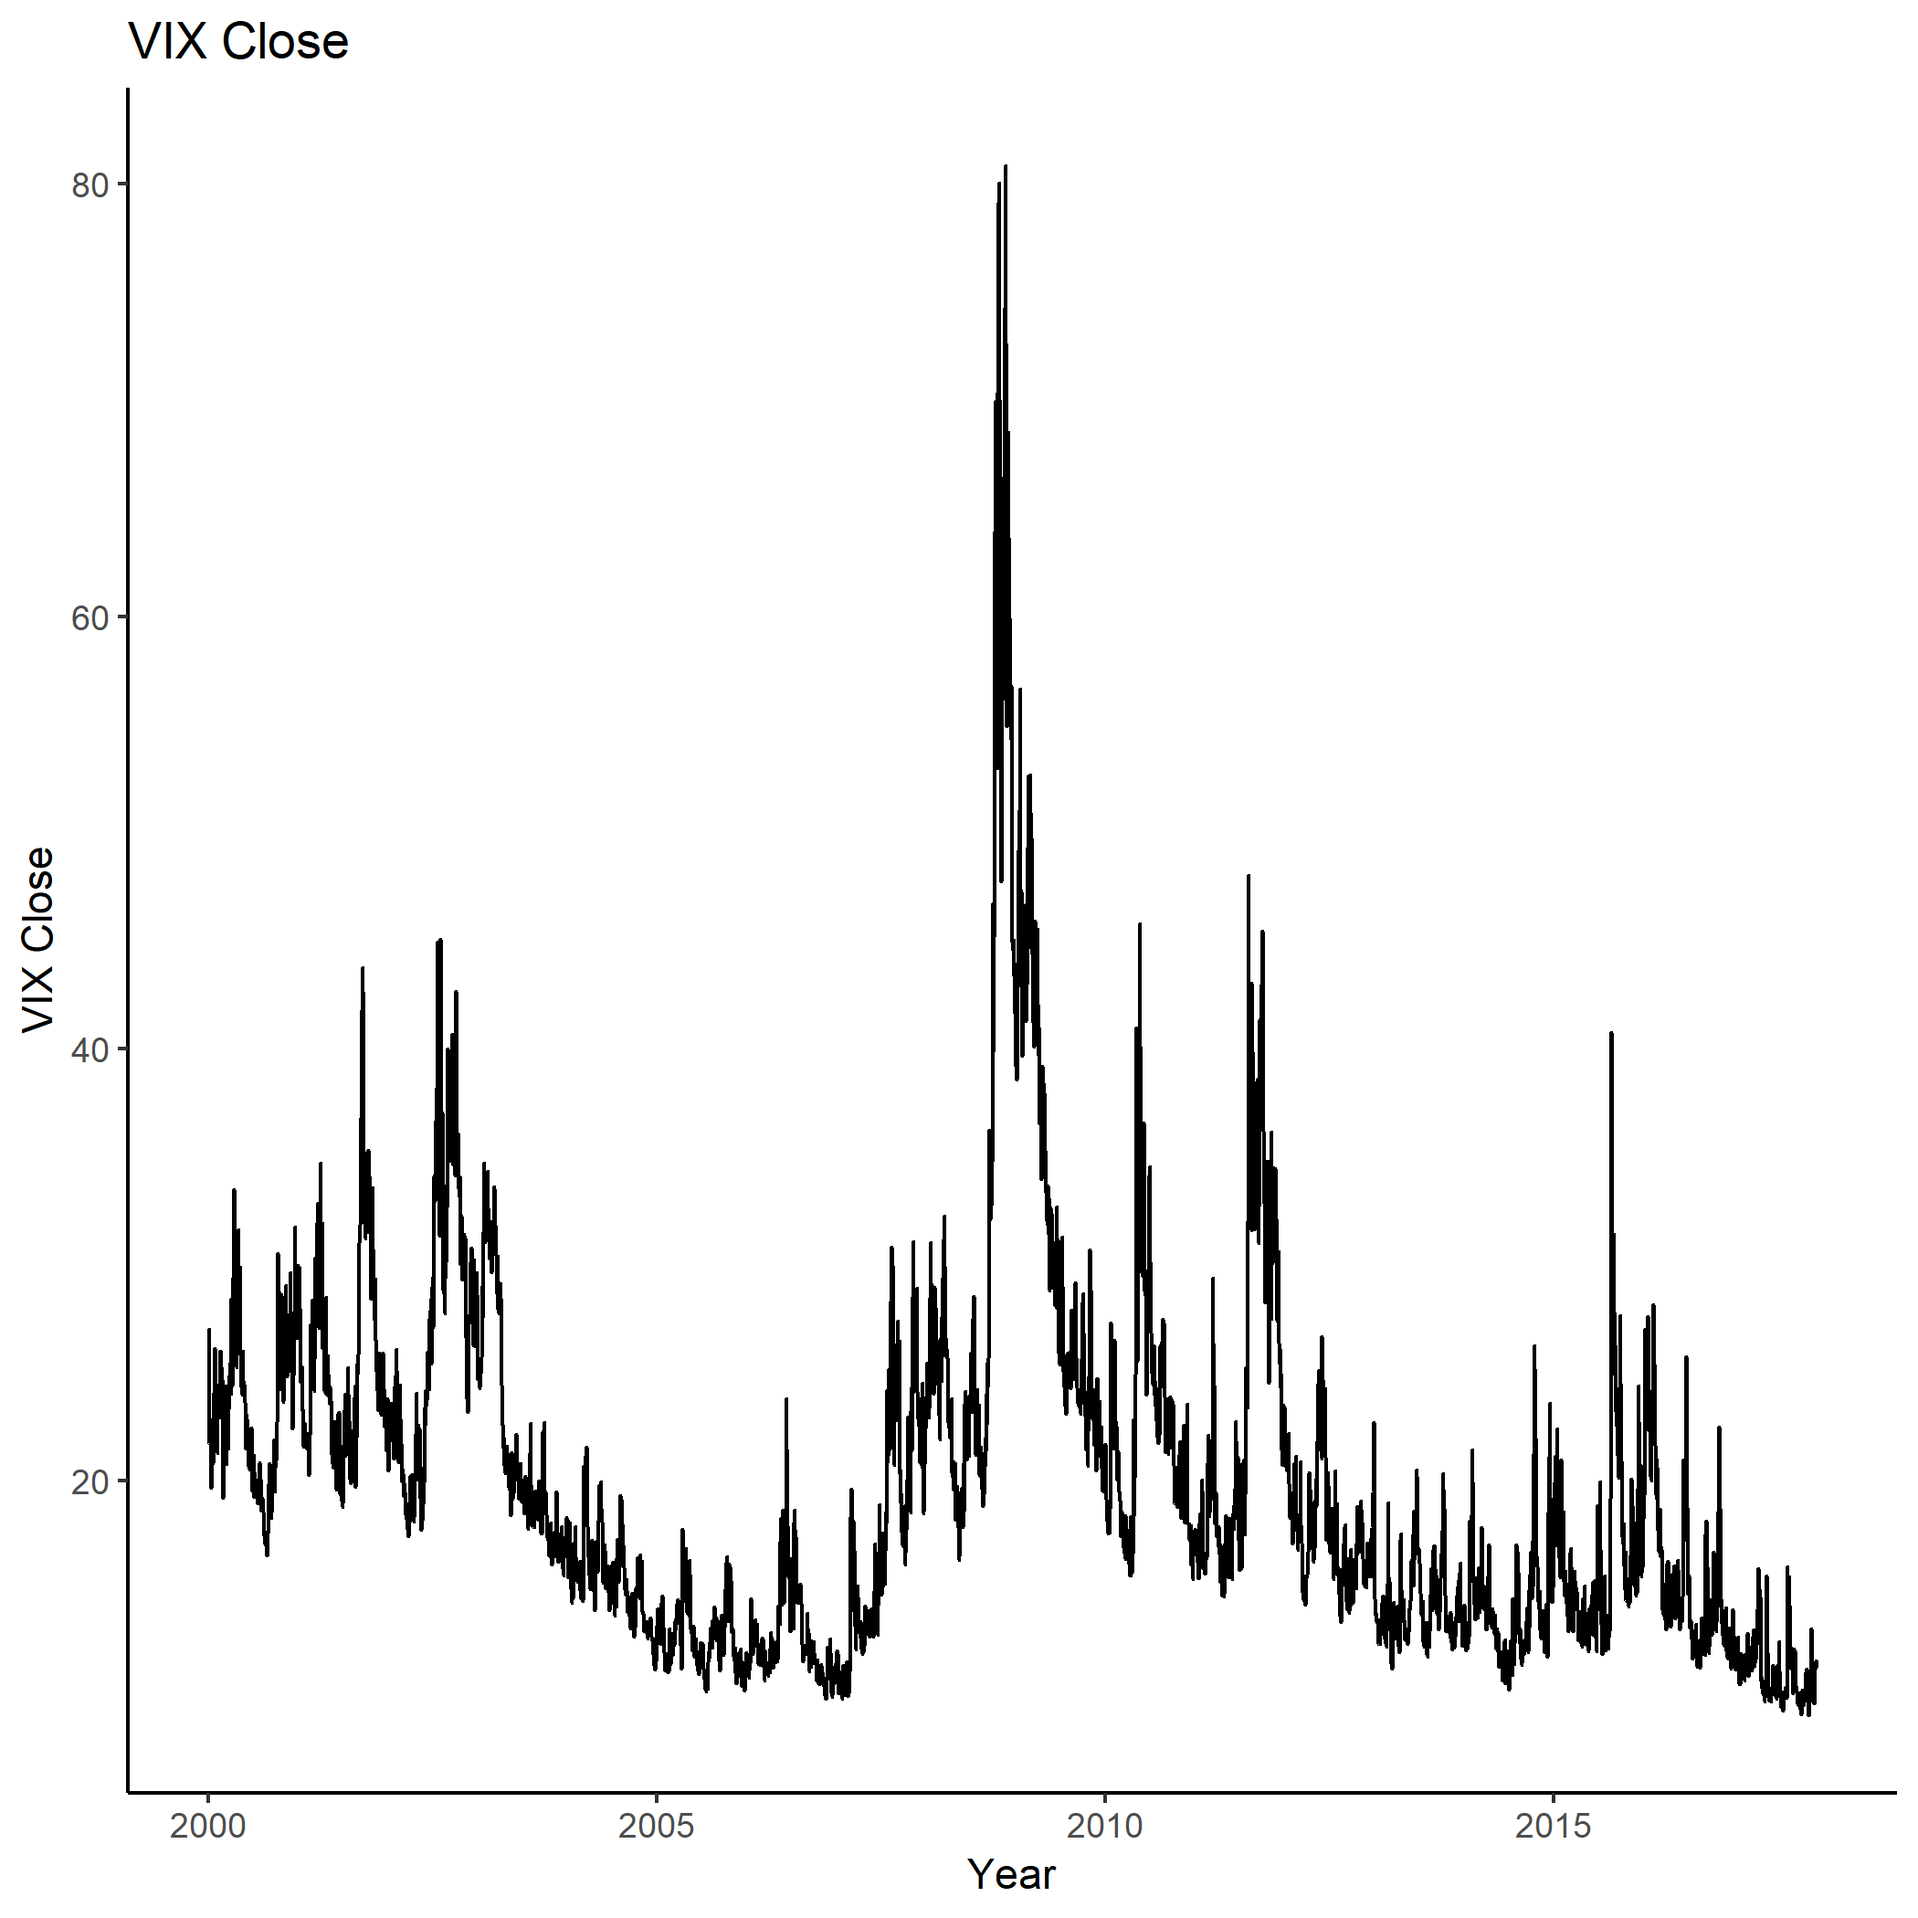
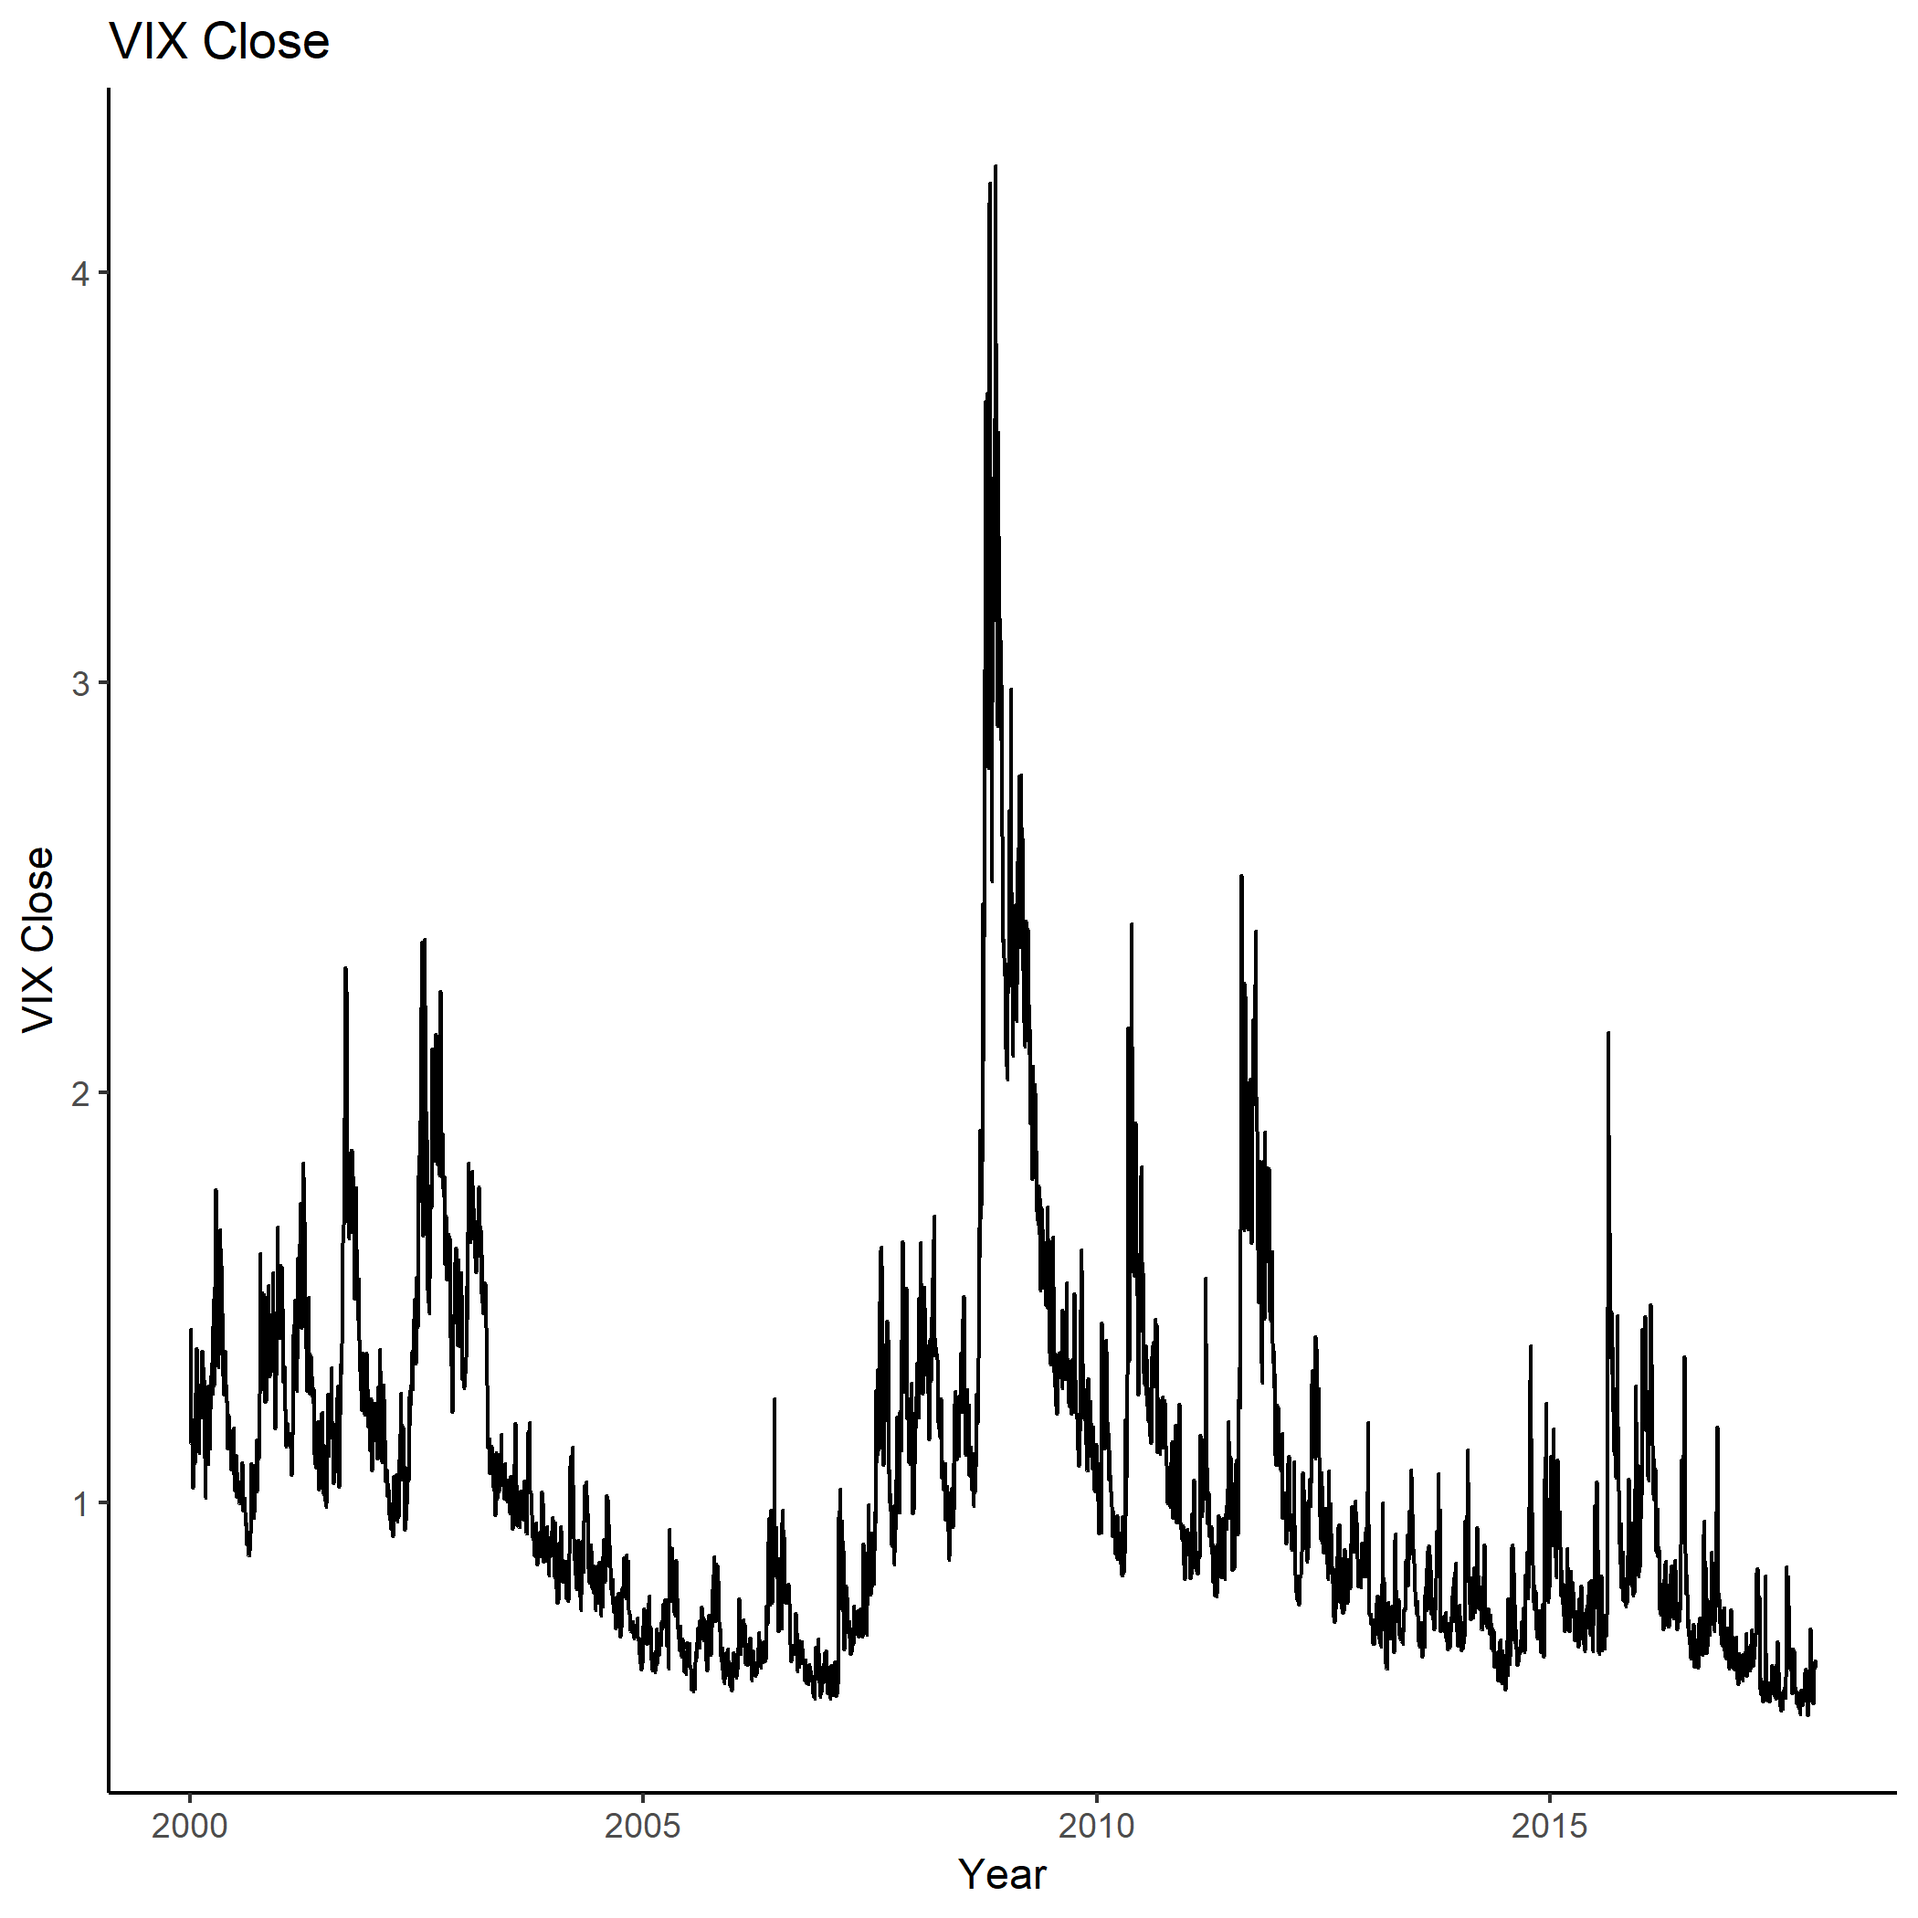
R: change scaling of VIX
VIX/sqrt(365) - war schon in function geändert, aber noch nicht im package und drake implementiert -> hat nur funktioniert, indem ich funktionen umbenannt habe

diff --git a/written/tables/regression_harvix.tex b/written/tables/regression_harvix.tex
@@ -11,8 +11,8 @@ $RV_{t}^{w}$ & $0.38^{***}$ & $0.27^{***}$  \\
              & $(0.03)$     & $(0.03)$      \\
 $RV_{t}^{m}$ & $0.21^{***}$ & $-0.28^{***}$ \\
              & $(0.02)$     & $(0.03)$      \\
-VIX          &              & $0.05^{***}$  \\
-             &              & $(0.00)$      \\
+VIX          &              & $0.87^{***}$  \\
+             &              & $(0.03)$      \\
 \hline
 R$^2$        & 0.71         & 0.76          \\
 Adj. R$^2$   & 0.71         & 0.76          \\

diff --git a/written/tables/regression_harvixln.tex b/written/tables/regression_harvixln.tex
@@ -3,8 +3,8 @@
 \hline
  & Historic & Historic and VIX \\
 \hline
-Intercept    & $-0.02^{**}$ & $-2.51^{***}$ \\
-             & $(0.01)$     & $(0.09)$      \\
+Intercept    & $-0.02^{**}$ & $-0.16^{***}$ \\
+             & $(0.01)$     & $(0.01)$      \\
 $RV_{t}^{d}$ & $0.34^{***}$ & $0.24^{***}$  \\
              & $(0.02)$     & $(0.02)$      \\
 $RV_{t}^{w}$ & $0.40^{***}$ & $0.28^{***}$  \\
